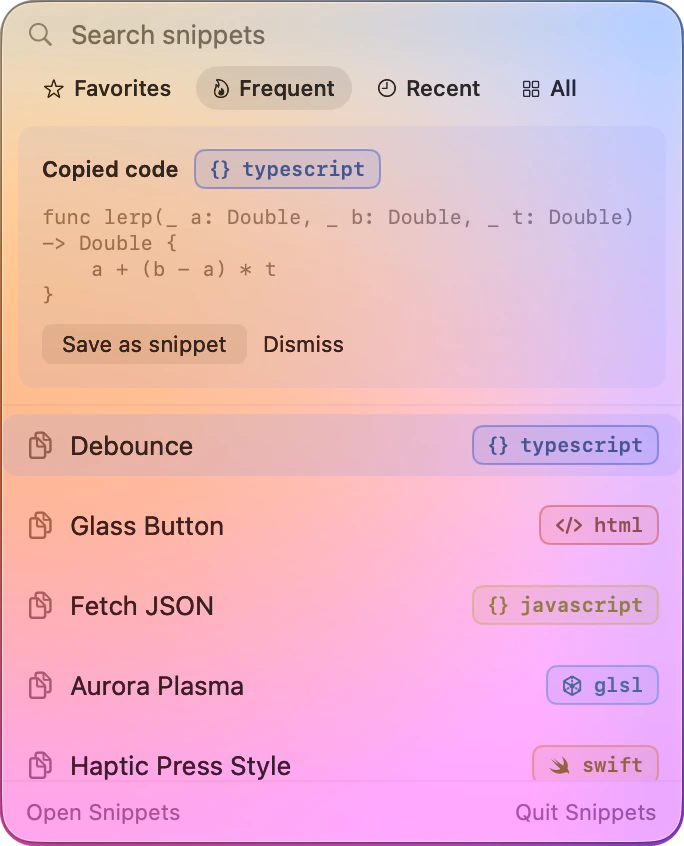
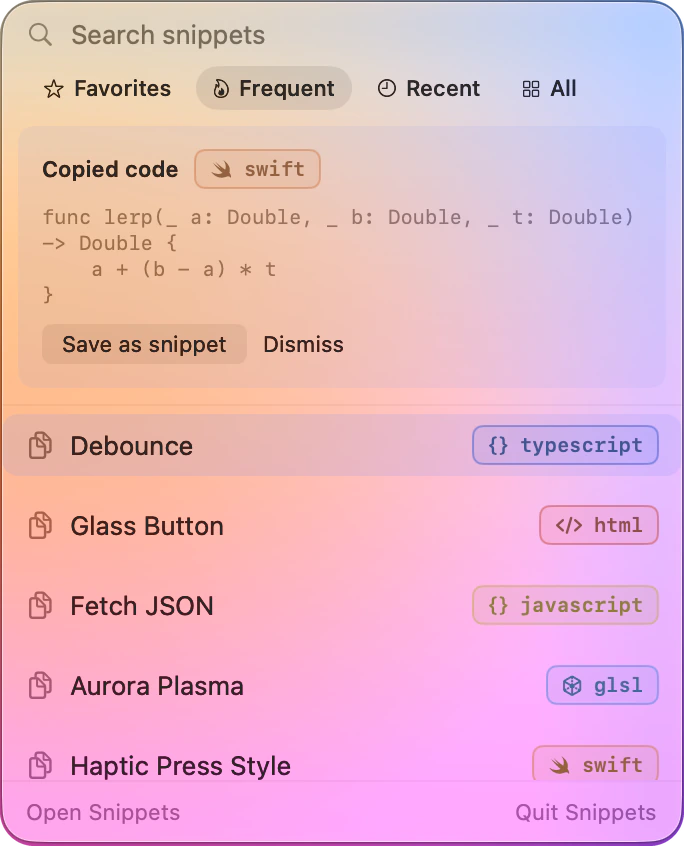
Add a features link and a Support Snippets button to the site
- The shared nav gains "features" (the home page's features section) and
  a Support Snippets button beside download, with the icon's pink heart,
  linking to GitHub Sponsors. It collapses to the heart on narrower
  screens. The download section offers the same button next to the
  download.
- The capture card uses new copied-code captures, now tagged swift after
  the language detection fix; aligned and cut out like the others.

Changed region(s): [[0.2763, 0.1537, 0.5833, 0.2459]]

diff --git a/site/snippets/index.html b/site/snippets/index.html
@@ -31,6 +31,7 @@
   <header class="nav glass">
     <a class="brand" href="./"><img class="theme-light" src="icon-light.png" alt=""><img class="theme-dark" src="icon-dark.png" alt="">snippets</a>
     <nav class="nav-links" aria-label="Site">
+      <a href="#features">features</a>
       <a href="support/">support</a>
       <a href="privacy/">privacy</a>
       <a href="license/">license</a>
@@ -41,6 +42,7 @@
       <button type="button" data-choice="light" aria-pressed="false" title="Light"><svg viewBox="0 0 16 16" fill="none" stroke="currentColor" stroke-width="1.5" stroke-linecap="round"><circle cx="8" cy="8" r="3"/><path d="M8 1v1.5M8 13.5V15M1 8h1.5M13.5 8H15M3 3l1 1M12 12l1 1M3 13l1-1M12 4l1-1"/></svg><span class="sr-only">Light</span></button>
       <button type="button" data-choice="dark" aria-pressed="false" title="Dark"><svg viewBox="0 0 16 16" fill="currentColor"><path d="M13.5 10.2A6 6 0 0 1 5.8 2.5a6 6 0 1 0 7.7 7.7z"/></svg><span class="sr-only">Dark</span></button>
     </div>
+    <a class="btn btn-glass btn-sponsor" href="https://github.com/sponsors/halilbagosi" target="_blank" rel="noopener"><svg viewBox="0 0 16 16" fill="currentColor" aria-hidden="true"><path d="M8 14.2 6.9 13.2C3 9.7.5 7.4.5 4.6.5 2.4 2.2.7 4.4.7c1.2 0 2.5.6 3.6 1.8C9.1 1.3 10.4.7 11.6.7c2.2 0 3.9 1.7 3.9 3.9 0 2.8-2.5 5.1-6.4 8.6z"/></svg><span>Support Snippets</span></a>
     <a class="btn btn-primary" href="#download"><svg viewBox="0 0 16 16" fill="none" stroke="currentColor" stroke-width="1.8" stroke-linecap="round" stroke-linejoin="round"><path d="M8 2v8.5M4.5 7 8 10.5 11.5 7M3 13.5h10"/></svg><span>download</span></a>
   </header>
 <!-- /header -->
@@ -216,11 +218,15 @@
       <img class="download-icon reveal theme-light" src="icon-light.png" width="128" height="128" alt="">
       <img class="download-icon reveal theme-dark" src="icon-dark.png" width="128" height="128" alt="" loading="lazy">
       <h2 class="headline reveal">Get Snippets.</h2>
-      <p class="lede reveal">Free to use, at home and at work.</p>
+      <p class="lede reveal">Free to use, at home and at work. If it saves you time, you can support its development.</p>
       <div class="reveal">
         <a class="btn btn-primary btn-lg" href="https://github.com/halilbagosi/halilbagosi.github.io/releases/latest/download/Snippets.dmg">
           <svg viewBox="0 0 16 16" fill="none" stroke="currentColor" stroke-width="1.8" stroke-linecap="round" stroke-linejoin="round"><path d="M8 2v8.5M4.5 7 8 10.5 11.5 7M3 13.5h10"/></svg>
           Download Snippets 1.0
+        </a>
+        <a class="btn btn-glass btn-lg btn-sponsor" href="https://github.com/sponsors/halilbagosi" target="_blank" rel="noopener">
+          <svg viewBox="0 0 16 16" fill="currentColor" aria-hidden="true"><path d="M8 14.2 6.9 13.2C3 9.7.5 7.4.5 4.6.5 2.4 2.2.7 4.4.7c1.2 0 2.5.6 3.6 1.8C9.1 1.3 10.4.7 11.6.7c2.2 0 3.9 1.7 3.9 3.9 0 2.8-2.5 5.1-6.4 8.6z"/></svg>
+          Support Snippets
         </a>
       </div>
       <p class="hero-meta reveal">Snippets.dmg · macOS 26 or later</p>

diff --git a/site/snippets/license/index.html b/site/snippets/license/index.html
@@ -22,6 +22,7 @@
   <header class="nav glass">
     <a class="brand" href="../"><img class="theme-light" src="../icon-light.png" alt=""><img class="theme-dark" src="../icon-dark.png" alt="">snippets</a>
     <nav class="nav-links" aria-label="Site">
+      <a href="../#features">features</a>
       <a href="../support/">support</a>
       <a href="../privacy/">privacy</a>
       <a href="../license/" aria-current="page">license</a>
@@ -32,6 +33,7 @@
       <button type="button" data-choice="light" aria-pressed="false" title="Light"><svg viewBox="0 0 16 16" fill="none" stroke="currentColor" stroke-width="1.5" stroke-linecap="round"><circle cx="8" cy="8" r="3"/><path d="M8 1v1.5M8 13.5V15M1 8h1.5M13.5 8H15M3 3l1 1M12 12l1 1M3 13l1-1M12 4l1-1"/></svg><span class="sr-only">Light</span></button>
       <button type="button" data-choice="dark" aria-pressed="false" title="Dark"><svg viewBox="0 0 16 16" fill="currentColor"><path d="M13.5 10.2A6 6 0 0 1 5.8 2.5a6 6 0 1 0 7.7 7.7z"/></svg><span class="sr-only">Dark</span></button>
     </div>
+    <a class="btn btn-glass btn-sponsor" href="https://github.com/sponsors/halilbagosi" target="_blank" rel="noopener"><svg viewBox="0 0 16 16" fill="currentColor" aria-hidden="true"><path d="M8 14.2 6.9 13.2C3 9.7.5 7.4.5 4.6.5 2.4 2.2.7 4.4.7c1.2 0 2.5.6 3.6 1.8C9.1 1.3 10.4.7 11.6.7c2.2 0 3.9 1.7 3.9 3.9 0 2.8-2.5 5.1-6.4 8.6z"/></svg><span>Support Snippets</span></a>
     <a class="btn btn-primary" href="../#download"><svg viewBox="0 0 16 16" fill="none" stroke="currentColor" stroke-width="1.8" stroke-linecap="round" stroke-linejoin="round"><path d="M8 2v8.5M4.5 7 8 10.5 11.5 7M3 13.5h10"/></svg><span>download</span></a>
   </header>
 

diff --git a/site/snippets/privacy/index.html b/site/snippets/privacy/index.html
@@ -22,6 +22,7 @@
   <header class="nav glass">
     <a class="brand" href="../"><img class="theme-light" src="../icon-light.png" alt=""><img class="theme-dark" src="../icon-dark.png" alt="">snippets</a>
     <nav class="nav-links" aria-label="Site">
+      <a href="../#features">features</a>
       <a href="../support/">support</a>
       <a href="../privacy/" aria-current="page">privacy</a>
       <a href="../license/">license</a>
@@ -32,6 +33,7 @@
       <button type="button" data-choice="light" aria-pressed="false" title="Light"><svg viewBox="0 0 16 16" fill="none" stroke="currentColor" stroke-width="1.5" stroke-linecap="round"><circle cx="8" cy="8" r="3"/><path d="M8 1v1.5M8 13.5V15M1 8h1.5M13.5 8H15M3 3l1 1M12 12l1 1M3 13l1-1M12 4l1-1"/></svg><span class="sr-only">Light</span></button>
       <button type="button" data-choice="dark" aria-pressed="false" title="Dark"><svg viewBox="0 0 16 16" fill="currentColor"><path d="M13.5 10.2A6 6 0 0 1 5.8 2.5a6 6 0 1 0 7.7 7.7z"/></svg><span class="sr-only">Dark</span></button>
     </div>
+    <a class="btn btn-glass btn-sponsor" href="https://github.com/sponsors/halilbagosi" target="_blank" rel="noopener"><svg viewBox="0 0 16 16" fill="currentColor" aria-hidden="true"><path d="M8 14.2 6.9 13.2C3 9.7.5 7.4.5 4.6.5 2.4 2.2.7 4.4.7c1.2 0 2.5.6 3.6 1.8C9.1 1.3 10.4.7 11.6.7c2.2 0 3.9 1.7 3.9 3.9 0 2.8-2.5 5.1-6.4 8.6z"/></svg><span>Support Snippets</span></a>
     <a class="btn btn-primary" href="../#download"><svg viewBox="0 0 16 16" fill="none" stroke="currentColor" stroke-width="1.8" stroke-linecap="round" stroke-linejoin="round"><path d="M8 2v8.5M4.5 7 8 10.5 11.5 7M3 13.5h10"/></svg><span>download</span></a>
   </header>
 

diff --git a/site/snippets/support/index.html b/site/snippets/support/index.html
@@ -22,6 +22,7 @@
   <header class="nav glass">
     <a class="brand" href="../"><img class="theme-light" src="../icon-light.png" alt=""><img class="theme-dark" src="../icon-dark.png" alt="">snippets</a>
     <nav class="nav-links" aria-label="Site">
+      <a href="../#features">features</a>
       <a href="../support/" aria-current="page">support</a>
       <a href="../privacy/">privacy</a>
       <a href="../license/">license</a>
@@ -32,6 +33,7 @@
       <button type="button" data-choice="light" aria-pressed="false" title="Light"><svg viewBox="0 0 16 16" fill="none" stroke="currentColor" stroke-width="1.5" stroke-linecap="round"><circle cx="8" cy="8" r="3"/><path d="M8 1v1.5M8 13.5V15M1 8h1.5M13.5 8H15M3 3l1 1M12 12l1 1M3 13l1-1M12 4l1-1"/></svg><span class="sr-only">Light</span></button>
       <button type="button" data-choice="dark" aria-pressed="false" title="Dark"><svg viewBox="0 0 16 16" fill="currentColor"><path d="M13.5 10.2A6 6 0 0 1 5.8 2.5a6 6 0 1 0 7.7 7.7z"/></svg><span class="sr-only">Dark</span></button>
     </div>
+    <a class="btn btn-glass btn-sponsor" href="https://github.com/sponsors/halilbagosi" target="_blank" rel="noopener"><svg viewBox="0 0 16 16" fill="currentColor" aria-hidden="true"><path d="M8 14.2 6.9 13.2C3 9.7.5 7.4.5 4.6.5 2.4 2.2.7 4.4.7c1.2 0 2.5.6 3.6 1.8C9.1 1.3 10.4.7 11.6.7c2.2 0 3.9 1.7 3.9 3.9 0 2.8-2.5 5.1-6.4 8.6z"/></svg><span>Support Snippets</span></a>
     <a class="btn btn-primary" href="../#download"><svg viewBox="0 0 16 16" fill="none" stroke="currentColor" stroke-width="1.8" stroke-linecap="round" stroke-linejoin="round"><path d="M8 2v8.5M4.5 7 8 10.5 11.5 7M3 13.5h10"/></svg><span>download</span></a>
   </header>
 

diff --git a/site/snippets/style.css b/site/snippets/style.css
@@ -345,6 +345,10 @@ img, video { display: block; max-width: 100%; }
 
 .nav .btn { padding: 7px 14px; font-size: 14px; }
 
+/* Support Snippets: glass, with the icon's pink heart. */
+.btn-sponsor svg { color: var(--pink); width: 15px; height: 15px; transition: transform 200ms var(--ease-out); }
+.btn-sponsor:hover svg { transform: scale(1.15); }
+
 /* ───────────── Type ───────────── */
 
 .eyebrow,
@@ -544,6 +548,10 @@ code, kbd {
   .nav-links { display: none; }
   .wrap { padding: 0 18px; }
   .doc { padding-top: 48px; }
+}
+@media (max-width: 980px) {
+  .nav .btn-sponsor span { display: none; }
+  .nav .btn-sponsor { padding: 7px 10px; }
 }
 @media (max-width: 420px) {
   .nav .btn span { display: none; }

diff --git a/site/snippets/home.css b/site/snippets/home.css
@@ -329,6 +329,7 @@
   filter: drop-shadow(0 18px 30px rgba(10, 132, 255, 0.28));
 }
 .download .lede { margin: 12px 0 28px; }
+.download .reveal:has(> .btn) { display: flex; gap: 12px; justify-content: center; flex-wrap: wrap; }
 
 .steps {
   list-style: none;

diff --git a/site/build.py b/site/build.py
@@ -21,6 +21,9 @@ ROOT = Path(__file__).resolve().parent.parent
 SITE = ROOT / "site"
 EULA = ROOT / "Sources/Snippets/Resources/EULA.txt"
 
+# Where "Support Snippets" sends people.
+SPONSOR = "https://github.com/sponsors/halilbagosi"
+
 SHELL = """<!doctype html>
 <html lang="en">
 <head>
@@ -80,7 +83,7 @@ def favicons(base: str) -> str:
 def header(base, current):
     """The nav every page shares. `base` is the path back to site/snippets/."""
     mark = ' aria-current="page"'
-    links = "\n".join(
+    links = f'      <a href="{base}#features">features</a>\n' + "\n".join(
         f'      <a href="{base}{p}/"{mark if p == current else ""}>{p}</a>'
         for p in ("support", "privacy", "license")
     )
@@ -95,6 +98,7 @@ def header(base, current):
       <button type="button" data-choice="light" aria-pressed="false" title="Light"><svg viewBox="0 0 16 16" fill="none" stroke="currentColor" stroke-width="1.5" stroke-linecap="round"><circle cx="8" cy="8" r="3"/><path d="M8 1v1.5M8 13.5V15M1 8h1.5M13.5 8H15M3 3l1 1M12 12l1 1M3 13l1-1M12 4l1-1"/></svg><span class="sr-only">Light</span></button>
       <button type="button" data-choice="dark" aria-pressed="false" title="Dark"><svg viewBox="0 0 16 16" fill="currentColor"><path d="M13.5 10.2A6 6 0 0 1 5.8 2.5a6 6 0 1 0 7.7 7.7z"/></svg><span class="sr-only">Dark</span></button>
     </div>
+    <a class="btn btn-glass btn-sponsor" href="{SPONSOR}" target="_blank" rel="noopener"><svg viewBox="0 0 16 16" fill="currentColor" aria-hidden="true"><path d="M8 14.2 6.9 13.2C3 9.7.5 7.4.5 4.6.5 2.4 2.2.7 4.4.7c1.2 0 2.5.6 3.6 1.8C9.1 1.3 10.4.7 11.6.7c2.2 0 3.9 1.7 3.9 3.9 0 2.8-2.5 5.1-6.4 8.6z"/></svg><span>Support Snippets</span></a>
     <a class="btn btn-primary" href="{base}#download"><svg viewBox="0 0 16 16" fill="none" stroke="currentColor" stroke-width="1.8" stroke-linecap="round" stroke-linejoin="round"><path d="M8 2v8.5M4.5 7 8 10.5 11.5 7M3 13.5h10"/></svg><span>download</span></a>
   </header>
 """
